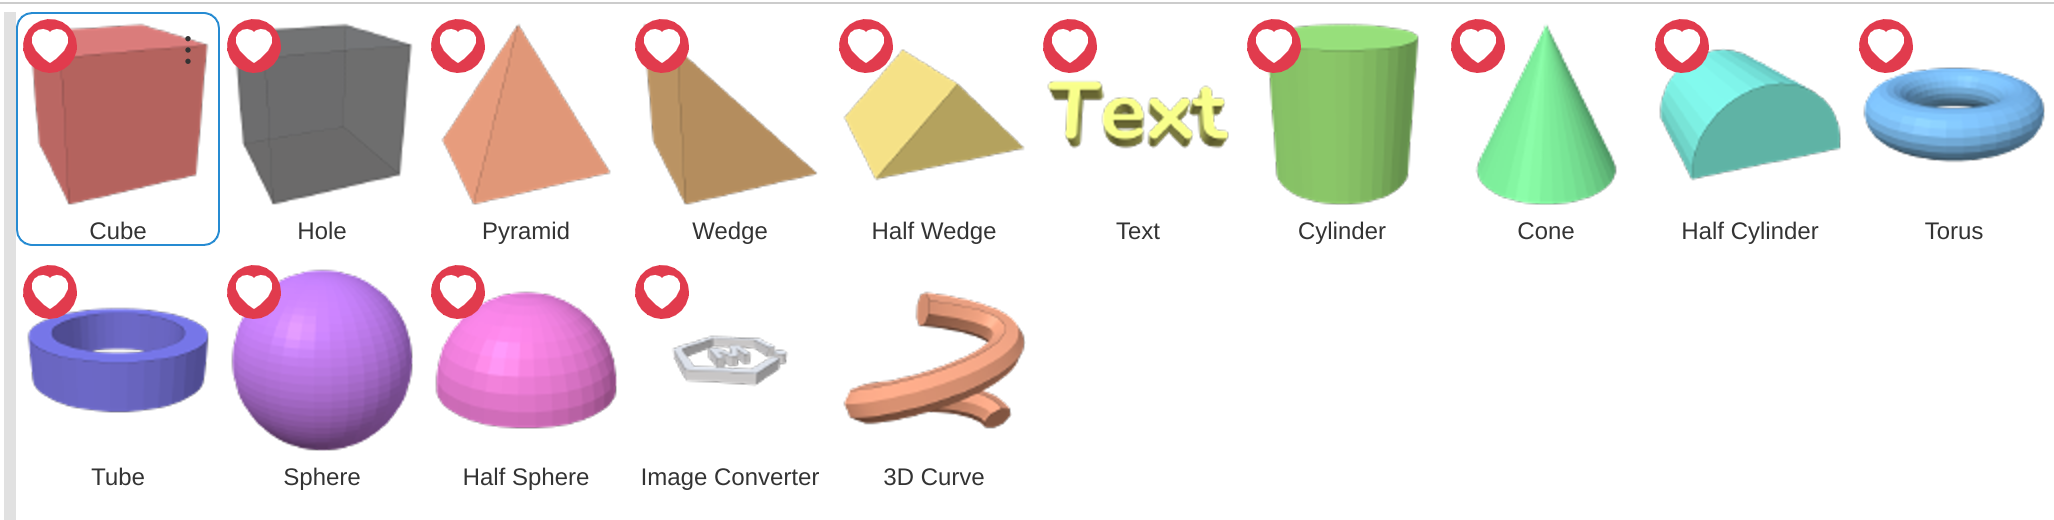
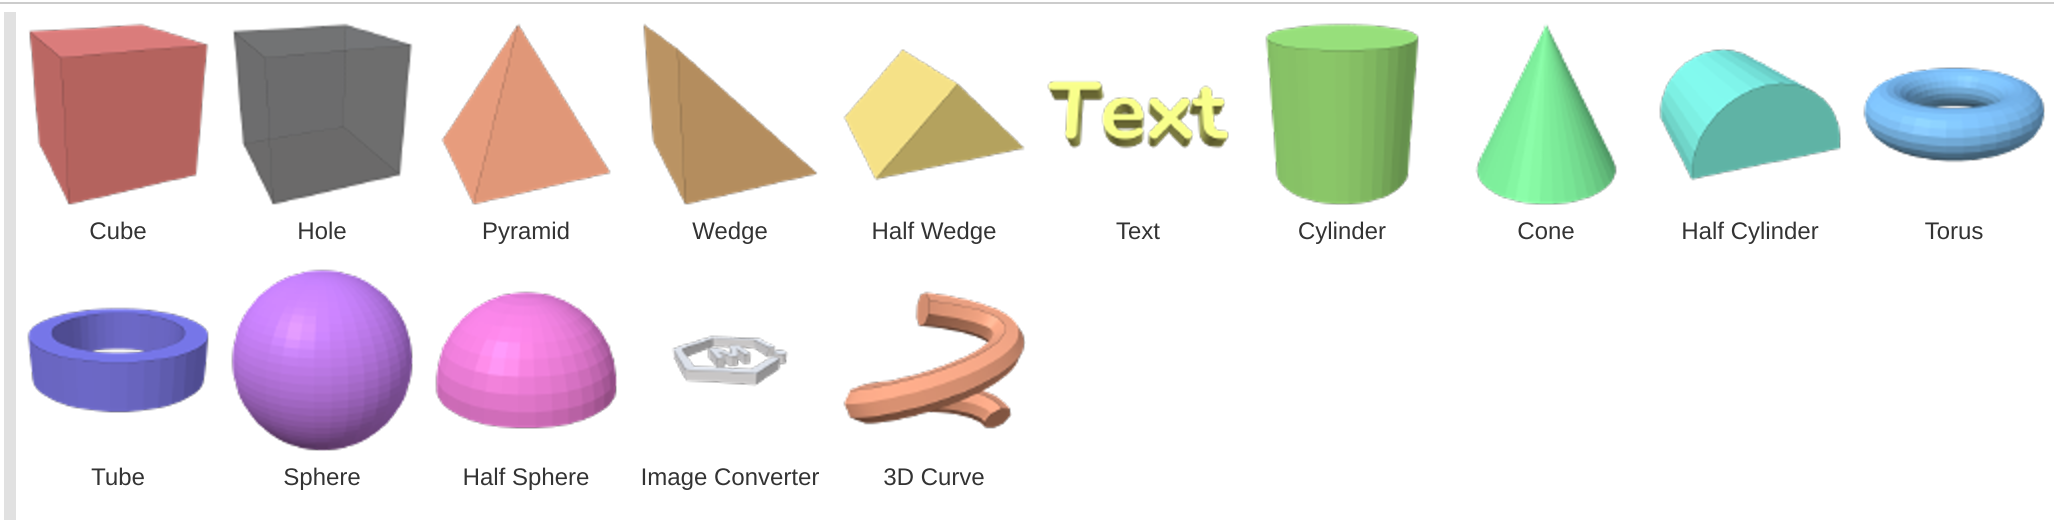
The Library picture shows the 3D Primitives tiles with no favourite hearts, and the getting-started pages say the heart shows when you point at a library item

diff --git a/docs/Help/getting-started/index.md b/docs/Help/getting-started/index.md
@@ -23,7 +23,7 @@ On a Mac, press ⌘ (Command) wherever these pages say Ctrl.
   - **Bed** - **Export**, **Cut**, **Copy**, **Paste**, **Reload** and **Clear Bed**.
   - **Undo** and **Redo**.
   - The operations, in groups such as **Transform**, **Placement**, **Merge** and **Duplication**. The **Tools** button at the end of the toolbar lets you collapse or hide groups.
-- **Favorites bar** - The column of shapes down the left side. It starts with the 3D primitives (Cube, Cylinder, Sphere and the rest); the heart on an item in the library adds it here or takes it off. Double-click a shape to add it to the bed, or drag it onto the bed where you want it.
+- **Favorites bar** - The column of shapes down the left side. It starts with the 3D primitives (Cube, Cylinder, Sphere and the rest); in the library, the heart that shows when you point at an item adds it here or takes it off. Double-click a shape to add it to the bed, or drag it onto the bed where you want it.
 - **3D view** - The middle of the window, where your design sits on the bed.
 - **Camera controls** - The cube in the top-right corner of the 3D view and the buttons around and under it. See [Camera Controls](../workspace/camera-controls.md).
 - **Side panel** - On the right, with a **Design** tab and an **AI** tab ([The AI Tab](ai-tab.md)). The **Design** tab shows the **Design tree** (every part in your design) above the **Properties panel** (the settings of the selected part).

diff --git a/docs/Help/getting-started/creating-new-objects.md b/docs/Help/getting-started/creating-new-objects.md
@@ -18,7 +18,7 @@ Click the **+** button in the row of tabs (**Create New Design**), or press Ctrl
 
 ## Add Shapes
 
-Double-click a shape in the favorites bar down the left side of the design, or drag it onto the bed where you want it. (A single click only highlights it.) The bar starts with every 3D primitive except 3D Curve; in the library, the heart on an item adds it to the bar or takes it off.
+Double-click a shape in the favorites bar down the left side of the design, or drag it onto the bed where you want it. (A single click only highlights it.) The bar starts with every 3D primitive except 3D Curve; in the library, the heart that shows when you point at an item adds it to the bar or takes it off.
 
 For more shapes, click **Add to Bed** in the toolbar and open **Included**:
 
